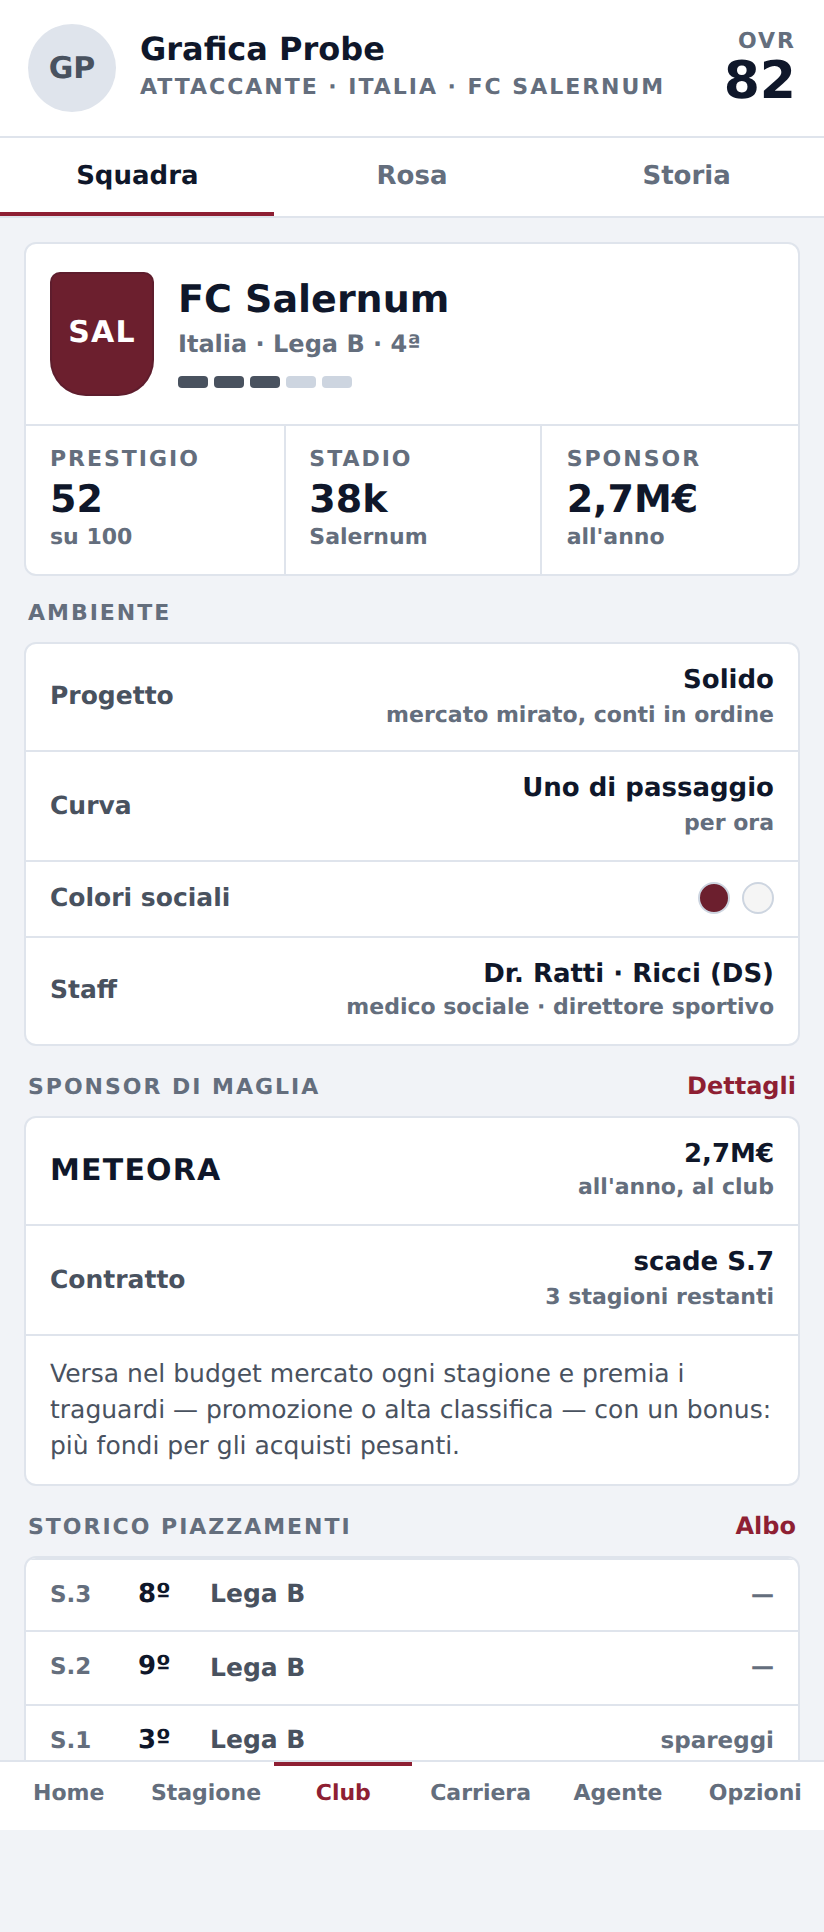
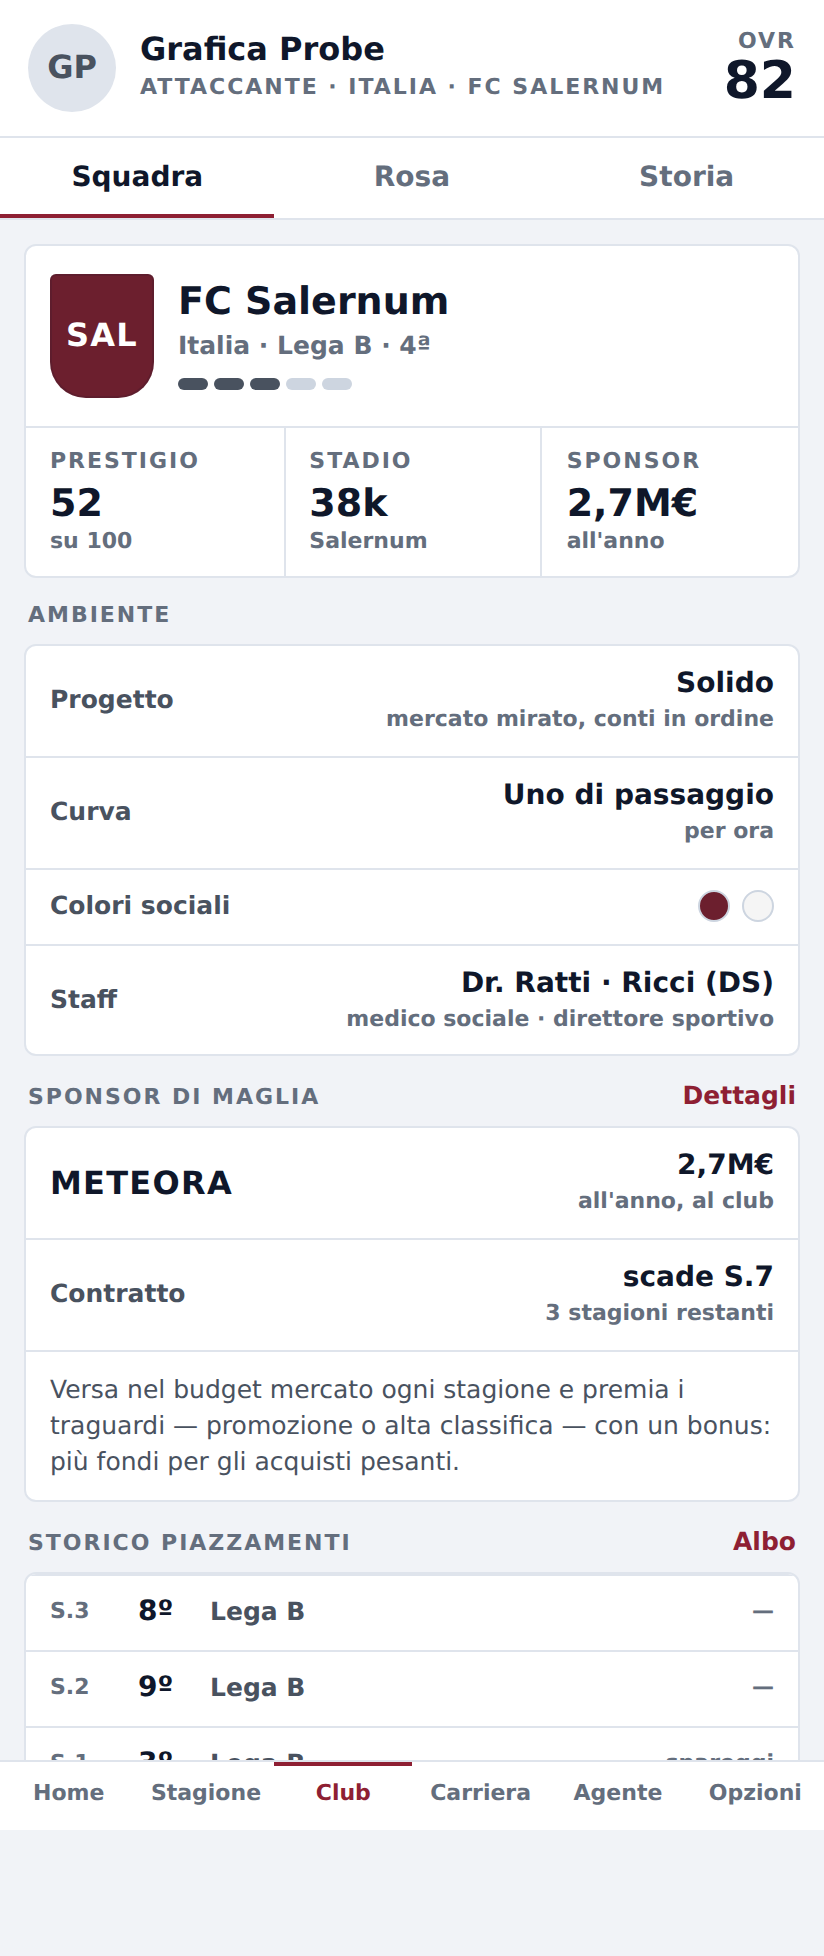
G1 · il censimento del reso: il tabellone dell'overhaul grafico
La griglia mobile ora conta, schermata per schermata, quanti valori DIVERSI
arrivano davvero all'occhio: tinte di testo, fondi, corpi, raggi. Non e' un
guardiano e non ha soglia: e' il tabellone su cui si misura se la direzione
grafica diventa un sistema o resta una collezione.

Il conto degli esadecimali nel sorgente (tavolozza.mjs, 522 tinte) e' CIECO:
un colore scritto dieci volte e mai reso vale zero, uno calcolato a runtime non
compare. Questo conta cio' che si vede.

La foto di PRIMA, a 412 px sul build 03b7299 (docs/collaudo-grafico/g1-CENSIMENTO-PRIMA.md):
  Dashboard              13 tinte · 14 corpi ·  8 raggi
  Stagione · Classifica  15 tinte ·  7 corpi ·  6 raggi
  Club                   11 tinte · 10 corpi ·  7 raggi
  Carriera · Profilo     16 tinte · 10 corpi · 11 raggi  (la peggiore)
Il provino, su tutte e tre le sue schermate: 5 tinte · 6 corpi · 3 raggi,
IDENTICI fra loro — corpi 11 · 12,5 · 14 · 16 · 19 · 26, raggi 3 · 6 · 50%.

Il censimento ha trovato un difetto addosso a me, che due letture dello
screenshot non avevano visto: `font:800 14px/1 inherit` NON e' CSS valido
(nella scorciatoia `font` l'ultimo valore e' la famiglia), il browser buttava
via tutta la dichiarazione e i bottoni della Home finivano a 13,3 px, il corpo
di fabbrica. Sette gradini invece di sei, e il settimo non l'avevo scelto io.

DICHIARATO: Chromium headless 412x915, NON l'Android del PO.
Nessuna riga di src/ toccata. Build ricostruito e verificato IDENTICO.
[…]

diff --git a/docs/collaudo-grafico/proposta-schermate/stile.css b/docs/collaudo-grafico/proposta-schermate/stile.css
@@ -36,7 +36,7 @@ body{background:var(--sfondo);color:var(--inchiostro);
 .id{background:var(--carta);border-bottom:1px solid var(--filo);padding:12px 14px;display:flex;align-items:center;gap:12px}
 .id .nome{font-size:16px;font-weight:800;line-height:1.15}
 .av{width:44px;height:44px;border-radius:50%;background:#dfe4ec;flex:none;
-    display:flex;align-items:center;justify-content:center;font-weight:800;color:var(--secondo);font-size:15px}
+    display:flex;align-items:center;justify-content:center;font-weight:800;color:var(--secondo);font-size:16px}
 .ovr{margin-left:auto;text-align:right}
 .ovr .v{font-size:26px;font-weight:800;line-height:1}
 
@@ -44,13 +44,13 @@ body{background:var(--sfondo);color:var(--inchiostro);
 .cond{display:grid;grid-template-columns:repeat(3,1fr);background:var(--carta);border-bottom:1px solid var(--filo)}
 .cond > div{padding:9px 14px;border-left:1px solid var(--filo)}
 .cond > div:first-child{border-left:none}
-.cond .v{font-size:17px;font-weight:800;line-height:1.1}
-.barra{height:3px;background:#e7ebf1;border-radius:2px;margin-top:5px;overflow:hidden}
+.cond .v{font-size:19px;font-weight:800;line-height:1.1}
+.barra{height:3px;background:#e7ebf1;border-radius:3px;margin-top:5px;overflow:hidden}
 .barra i{display:block;height:100%}
 
 /* ---- navigazione di sezione: sottolineatura, non tre pillole ---- */
 .tabs{display:flex;background:var(--carta);border-bottom:1px solid var(--filo)}
-.tabs div{flex:1;text-align:center;padding:11px 0 10px;font-size:13px;font-weight:700;color:var(--terzo)}
+.tabs div{flex:1;text-align:center;padding:11px 0 10px;font-size:14px;font-weight:700;color:var(--terzo)}
 .tabs div.on{color:var(--inchiostro);box-shadow:inset 0 -2px 0 var(--accento)}
 .filtri{display:flex;gap:16px;padding:9px 14px;background:var(--carta);border-bottom:1px solid var(--filo);
   overflow-x:auto;white-space:nowrap;scrollbar-width:none}
@@ -61,12 +61,12 @@ body{background:var(--sfondo);color:var(--inchiostro);
 /* ---- carta e righe ---- */
 .sez{margin:12px 12px 0}
 .cap{display:flex;align-items:baseline;justify-content:space-between;padding:0 2px 6px}
-.cap a{color:var(--accento);font-size:12px;font-weight:700;text-decoration:none}
+.cap a{color:var(--accento);font-size:12.5px;font-weight:700;text-decoration:none}
 .carta{background:var(--carta);border:1px solid var(--filo);border-radius:6px;overflow:hidden}
 .riga{display:flex;align-items:center;gap:10px;padding:10px 12px;border-top:1px solid var(--filo)}
 .riga:first-child{border-top:none}
 .riga .k{font-size:12.5px;font-weight:700;color:var(--secondo)}
-.riga .v{margin-left:auto;font-size:13px;font-weight:700;text-align:right}
+.riga .v{margin-left:auto;font-size:14px;font-weight:700;text-align:right}
 .riga .v small{display:block;font-size:11px;font-weight:600;color:var(--terzo);margin-top:1px}
 
 /* ---- riga di dati a tre ---- */
@@ -80,22 +80,27 @@ body{background:var(--sfondo);color:var(--inchiostro);
 /* LO SCUDO non impone il bianco: i colori dei club sono quelli del gioco e su un giallo
    il bianco fa 2,95:1. L'inchiostro della sigla e' scelto per contrasto, scudo per scudo
    (bianco o #0f172a, quello che vince): sui nove club del provino il minimo e' 4,63:1. */
-.scudo{width:34px;height:40px;border-radius:4px 4px 12px 12px;display:flex;align-items:center;justify-content:center;
+.scudo{width:34px;height:40px;border-radius:3px 3px 12px 12px;display:flex;align-items:center;justify-content:center;
        color:#fff;font-size:11px;font-weight:800;letter-spacing:.04em;flex:none;
        box-shadow:inset 0 0 0 1px rgba(15,23,42,.14)}
 .scudo.p{width:29px;height:34px;border-radius:3px 3px 10px 10px;font-size:11px;letter-spacing:0}
 
 /* ---- forma: cinque quadratini ---- */
 .forma{display:flex;gap:3px}
-.forma i{width:13px;height:13px;border-radius:2px;display:block}
-.forma.p i{width:10px;height:10px;border-radius:2px}
+.forma i{width:13px;height:13px;border-radius:3px;display:block}
+.forma.p i{width:10px;height:10px;border-radius:3px}
 
 /* ---- azione ---- */
 .cta{margin:12px;display:flex;gap:8px}
+/* [G1 · difetto mio, trovato dal censimento] `font:800 14px/1 inherit` NON E' CSS VALIDO:
+   nella scorciatoia `font` l'ultimo valore e' la FAMIGLIA, e `inherit` li' dentro non vale —
+   il browser buttava via TUTTA la dichiarazione e i due bottoni finivano al corpo di
+   fabbrica del browser, 13,3 px. Il censimento dei corpi resi l'ha visto: sette gradini
+   sulla Home invece di sei, e il settimo era un valore che non avevo scelto io. */
 .cta button{flex:1;border:none;border-radius:6px;background:var(--accento);color:#fff;
-  font:800 14px/1 inherit;padding:14px 12px;letter-spacing:.01em}
+  font-family:inherit;font-size:14px;font-weight:800;line-height:1;padding:14px 12px;letter-spacing:.01em}
 .cta .sec{flex:0 0 auto;background:var(--carta);color:var(--secondo);border:1px solid var(--filo);
-  font-weight:700;padding:14px 16px;border-radius:6px}
+  font-family:inherit;font-size:14px;font-weight:700;line-height:1;padding:14px 16px;border-radius:6px}
 .tag{display:inline-block;padding:2px 7px;border-radius:3px;background:var(--accento-tenue);
      color:var(--accento);font-size:11px;font-weight:800;letter-spacing:.05em;text-transform:uppercase}
 

diff --git a/docs/collaudo-grafico/proposta-schermate/club.html b/docs/collaudo-grafico/proposta-schermate/club.html
@@ -5,22 +5,22 @@
 <style>
   .clubid{display:flex;gap:12px;align-items:center;padding:14px 12px}
   .clubid .nm{font-size:19px;font-weight:800;line-height:1.15}
-  .clubid .lg{font-size:12px;font-weight:700;color:var(--terzo);margin-top:3px}
+  .clubid .lg{font-size:12.5px;font-weight:700;color:var(--terzo);margin-top:3px}
   /* REPUTAZIONE: cinque tacche, non cinque stelline di testo. Le stelline vuote erano
      un nodo di TESTO a 1,35:1 — un carattere che nessuno riesce a leggere e che il metro
      conta come difetto. Una tacca non e' testo: si vede e non si finge leggibile. */
   .tacche{display:flex;gap:3px;margin-top:7px}
-  .tacche i{width:15px;height:6px;border-radius:2px;background:var(--filo-forte);display:block}
+  .tacche i{width:15px;height:6px;border-radius:3px;background:var(--filo-forte);display:block}
   .tacche i.on{background:var(--secondo)}
-  .scudo.g{width:52px;height:62px;border-radius:5px 5px 18px 18px;font-size:15px}
+  .scudo.g{width:52px;height:62px;border-radius:3px 3px 18px 18px;font-size:16px}
   .testo{padding:10px 12px;font-size:12.5px;line-height:1.45;color:var(--secondo);border-top:1px solid var(--filo)}
   .pall{display:flex;gap:6px;margin-left:auto}
   .pall i{width:16px;height:16px;border-radius:50%;display:block;border:1px solid var(--filo-forte)}
   .st{display:flex;align-items:center;gap:10px;padding:9px 12px;border-top:1px solid var(--filo)}
-  .st .s{width:34px;font-size:11.5px;font-weight:800;color:var(--terzo)}
-  .st .p{width:26px;font-size:13px;font-weight:800}
+  .st .s{width:34px;font-size:11px;font-weight:800;color:var(--terzo)}
+  .st .p{width:26px;font-size:14px;font-weight:800}
   .st .l{font-size:12.5px;font-weight:600;color:var(--secondo)}
-  .st .e{margin-left:auto;font-size:11.5px;font-weight:700;color:var(--terzo)}
+  .st .e{margin-left:auto;font-size:11px;font-weight:700;color:var(--terzo)}
 </style></head><body>
 
 <div class="id">
@@ -67,7 +67,7 @@
   <div class="cap"><span class="et">Sponsor di maglia</span><a href="#">Dettagli</a></div>
   <div class="carta">
     <div class="riga">
-      <span style="font-size:15px;font-weight:800;letter-spacing:.04em">METEORA</span>
+      <span style="font-size:16px;font-weight:800;letter-spacing:.04em">METEORA</span>
       <span class="v">2,7M€<small>all'anno, al club</small></span>
     </div>
     <div class="riga"><span class="k">Contratto</span><span class="v">scade S.7<small>3 stagioni restanti</small></span></div>

diff --git a/docs/collaudo-grafico/proposta-schermate/stagione.html b/docs/collaudo-grafico/proposta-schermate/stagione.html
@@ -10,20 +10,20 @@
   .cls{margin:0 12px}
   .rg{display:flex;align-items:center;gap:9px;padding:9px 10px 9px 0;border-top:1px solid var(--filo);position:relative}
   .rg:first-child{border-top:none}
-  .rg .rail{width:3px;align-self:stretch;border-radius:0 2px 2px 0;background:transparent;flex:none}
+  .rg .rail{width:3px;align-self:stretch;border-radius:0 3px 3px 0;background:transparent;flex:none}
   .rg .pos{width:20px;text-align:center;font-size:12.5px;font-weight:800;color:var(--secondo);flex:none}
   .rg .cor{min-width:0;flex:1}
-  .rg .nm{font-size:13.5px;font-weight:700;line-height:1.2;white-space:nowrap;overflow:hidden;text-overflow:ellipsis}
+  .rg .nm{font-size:14px;font-weight:700;line-height:1.2;white-space:nowrap;overflow:hidden;text-overflow:ellipsis}
   .rg .sub{font-size:11px;color:var(--terzo);font-weight:600;margin-top:2px;font-variant-numeric:tabular-nums}
   .rg .dr{width:34px;text-align:right;font-size:12.5px;font-weight:700;color:var(--secondo);flex:none}
-  .rg .pt{width:30px;text-align:right;font-size:17px;font-weight:800;flex:none}
+  .rg .pt{width:30px;text-align:right;font-size:19px;font-weight:800;flex:none}
   .rg.io{background:var(--accento-tenue)}
   .rg.io .nm{color:var(--accento)}
   .legenda{display:flex;gap:14px;padding:9px 12px;flex-wrap:wrap}
   .legenda span{font-size:11px;font-weight:600;color:var(--terzo);display:flex;align-items:center;gap:5px}
-  .legenda i{width:8px;height:8px;border-radius:2px;display:block}
+  .legenda i{width:8px;height:8px;border-radius:3px;display:block}
   .testa{display:flex;align-items:baseline;justify-content:space-between;padding:10px 12px 8px}
-  .testa .t{font-size:13px;font-weight:800;letter-spacing:.02em}
+  .testa .t{font-size:14px;font-weight:800;letter-spacing:.02em}
   .testa .g{font-size:11px;font-weight:700;color:var(--terzo)}
 </style></head><body>
 

diff --git a/docs/collaudo-grafico/proposta-schermate/home.html b/docs/collaudo-grafico/proposta-schermate/home.html
@@ -8,11 +8,11 @@
   .sq .nm{font-size:12.5px;font-weight:700;line-height:1.2}
   .sq .ps{font-size:11px;color:var(--terzo);font-weight:600}
   .mid{text-align:center}
-  .mid .k{font-size:12px;font-weight:800;color:var(--secondo);letter-spacing:.08em}
+  .mid .k{font-size:12.5px;font-weight:800;color:var(--secondo);letter-spacing:.08em}
   .mid .s{font-size:11px;color:var(--terzo);margin-top:2px}
   .prog{padding:11px 12px;border-top:1px solid var(--filo)}
   .prog .pt{font-size:12.5px;line-height:1.45;color:var(--secondo)}
-  .marchio{font-size:13px;font-weight:800;letter-spacing:.02em;color:var(--accento)}
+  .marchio{font-size:14px;font-weight:800;letter-spacing:.02em;color:var(--accento)}
   .marchio b{font-weight:800;font-style:italic;color:var(--secondo)}
 </style></head><body>
 
@@ -62,7 +62,7 @@
   <div class="cap"><span class="et">Il club</span><a href="#">Apri</a></div>
   <div class="carta">
     <div class="riga" style="justify-content:space-between">
-      <span style="font-weight:700;font-size:13px">Progetto societario</span>
+      <span style="font-weight:700;font-size:14px">Progetto societario</span>
       <span class="tag">Solido</span>
     </div>
     <div class="prog"><div class="pt">Bilancio in ordine, mercato mirato, obiettivi realistici. Un club che non promette e non tradisce.</div></div>

diff --git a/docs/collaudo-grafico/g1-CENSIMENTO-PRIMA.md b/docs/collaudo-grafico/g1-CENSIMENTO-PRIMA.md
@@ -1,0 +1,60 @@
+# G1 · Censimento del reso — LA FOTO DI PRIMA
+
+Misurato con `CPM_LARG=412 CPM_FOTO=0 node tests/visual/griglia-mobile.mjs` sul build a
+`03b7299` (nessuna riga di `src/` toccata). **Chromium headless 412×915, NON l'Android del PO.**
+
+Non è un guardiano e non ha una soglia: è il **tabellone** su cui si misurerà, schermata per
+schermata, se la direzione grafica è diventata un sistema o è rimasta una collezione. Il conto
+degli esadecimali nel sorgente (`tavolozza.mjs`, 522 tinte) è **cieco**: un colore scritto dieci
+volte e mai reso vale zero, e uno calcolato a runtime non compare. Questo conta ciò che si vede.
+
+| schermata | tinte di testo | fondi | corpi | raggi |
+|---|---:|---:|---:|---:|
+| Home fuori carriera | 1 | 1 | 2 | 5 |
+| Impostazioni | 3 | 2 | 4 | 5 |
+| Creazione | 9 | 6 | 6 | 5 |
+| Offerte | 6 | 4 | 4 | 3 |
+| **Dashboard** | **13** | **6** | **14** | **8** |
+| **Stagione · Classifica** | **15** | **9** | **7** | **6** |
+| Stagione · Calendario | 9 | 8 | 8 | 6 |
+| Stagione · Coppe | 5 | 2 | 6 | 4 |
+| **Club** | **11** | **10** | **10** | **7** |
+| Carriera · Profilo | 16 | 7 | 10 | 11 |
+| Carriera · Nazionale | 9 | 5 | 7 | 5 |
+| Agente | 9 | 4 | 12 | 8 |
+| Prepartita | 6 | 3 | 4 | 5 |
+
+## Il provino, per confronto
+
+`node tests/visual/provino-schermate.mjs`:
+
+| schermata | tinte di testo | fondi | corpi | raggi |
+|---|---:|---:|---:|---:|
+| Home | 5 | 7 | 6 | 3 |
+| Stagione · Classifica | 5 | 11 | 6 | 3 |
+| Club | 5 | 4 | 6 | 3 |
+
+**Corpi identici su tutte e tre**: 11 · 12,5 · 14 · 16 · 19 · 26.
+**Raggi identici su tutte e tre**: 3 · 6 · 50 %.
+La coerenza fra schermate chiesta dal PO lì è un **fatto misurato**, non una dichiarazione.
+
+Le tre teste a testa:
+
+| | oggi | provino |
+|---|---:|---:|
+| Dashboard / Home — tinte · corpi · raggi | 13 · 14 · 8 | 5 · 6 · 3 |
+| Stagione · Classifica — tinte · corpi · raggi | 15 · 7 · 6 | 5 · 6 · 3 |
+| Club — tinte · corpi · raggi | 11 · 10 · 7 | 5 · 6 · 3 |
+
+**DA DICHIARARE, perché altrimenti il numero mente:** gli **11 fondi** della classifica del provino
+non sono deriva — sono i **colori veri dei dodici club** dietro la sigla sullo scudo. L'identità dei
+club non è una tinta di sistema e non va unificata. Le colonne che misurano il sistema sono
+**tinte di testo, corpi e raggi**.
+
+## Il difetto che il censimento ha trovato addosso a me
+
+`font:800 14px/1 inherit` **non è CSS valido**: nella scorciatoia `font` l'ultimo valore è la
+famiglia, e `inherit` lì dentro non vale — il browser buttava via tutta la dichiarazione e i due
+bottoni della Home finivano al corpo di fabbrica, **13,3 px**. Il censimento ha visto sette gradini
+invece di sei, e il settimo era un valore che non avevo scelto io. Nessun occhio l'aveva notato in
+due letture dello screenshot.
